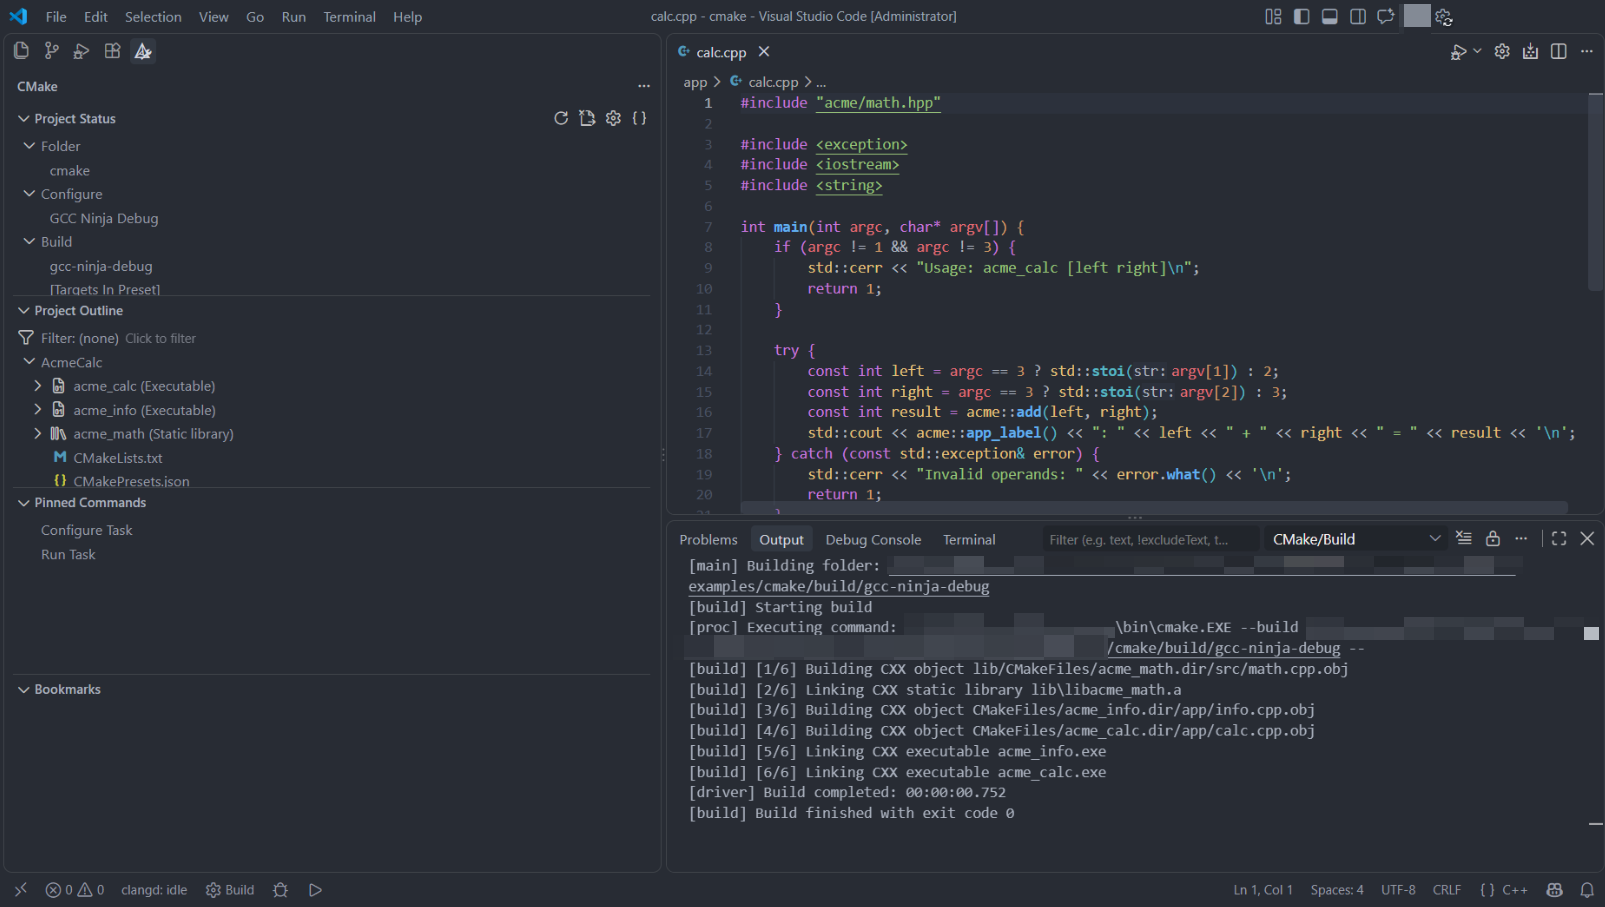
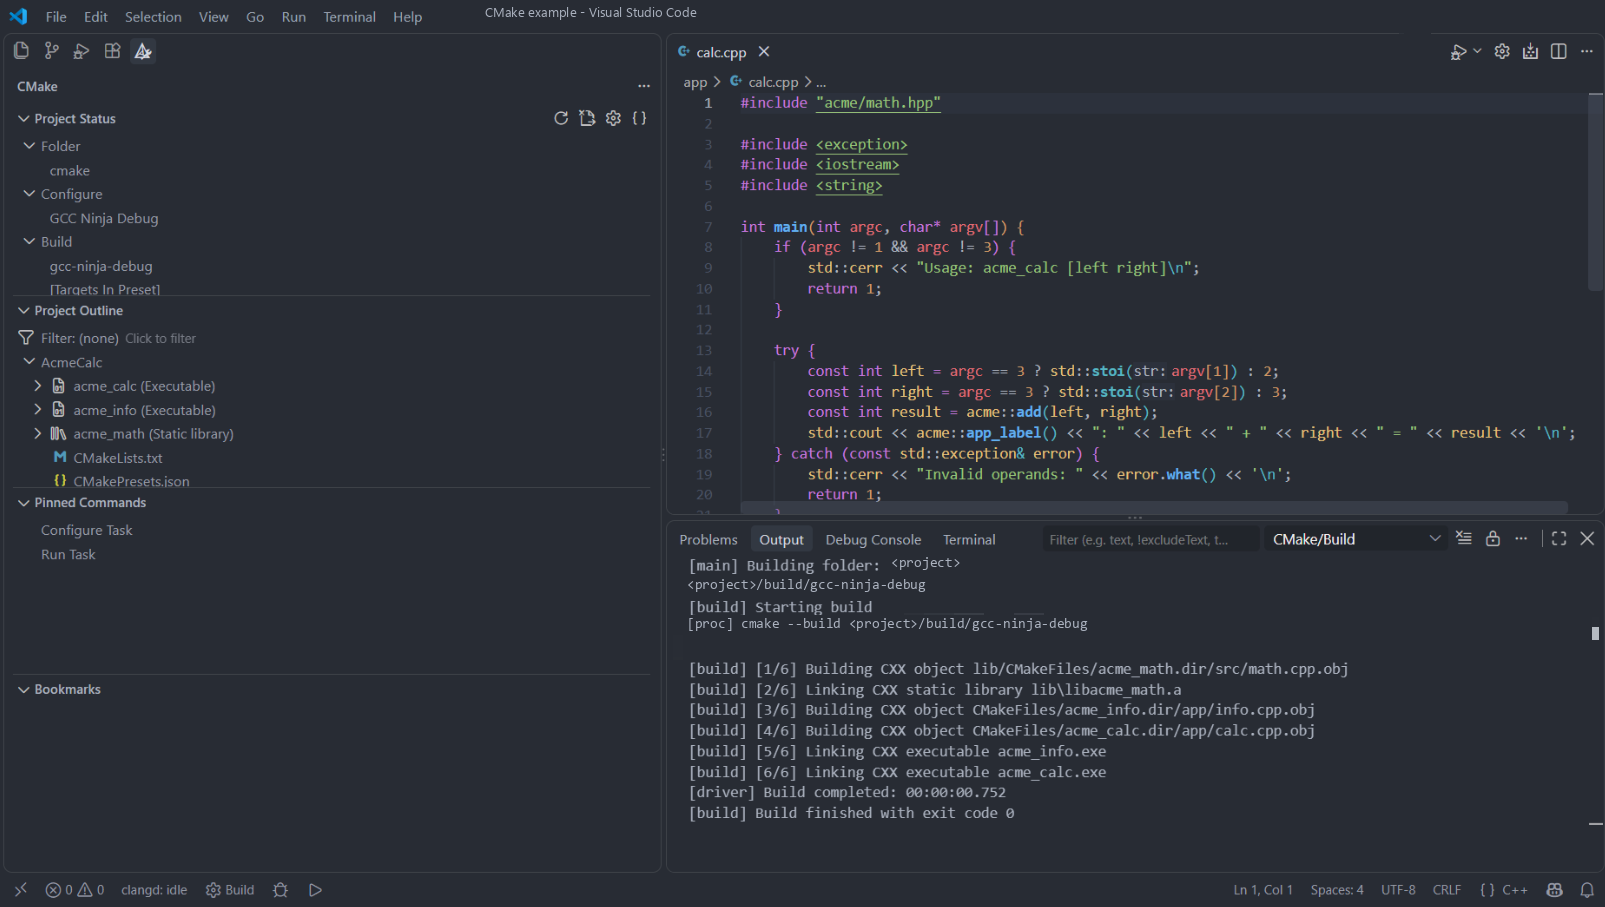
README.md pictures

diff --git a/README.md b/README.md
@@ -11,7 +11,7 @@ Both approaches use clangd for language services and support debugging with GDB 
 
 ## Build and Debug in VS Code
 
-The screenshots below show the repository's Windows examples running with GCC and GDB. Follow the workflow from selecting a build configuration to inspecting local variables at a breakpoint.
+The screenshots below show the repository's Windows examples running with GCC and GDB. Follow the workflow from selecting a build configuration to inspecting local variables at a breakpoint. Local paths and account details have been redacted; `<project>` and `<toolchain>` represent the example folder and compiler installation.
 
 ### CMake Tools
 
